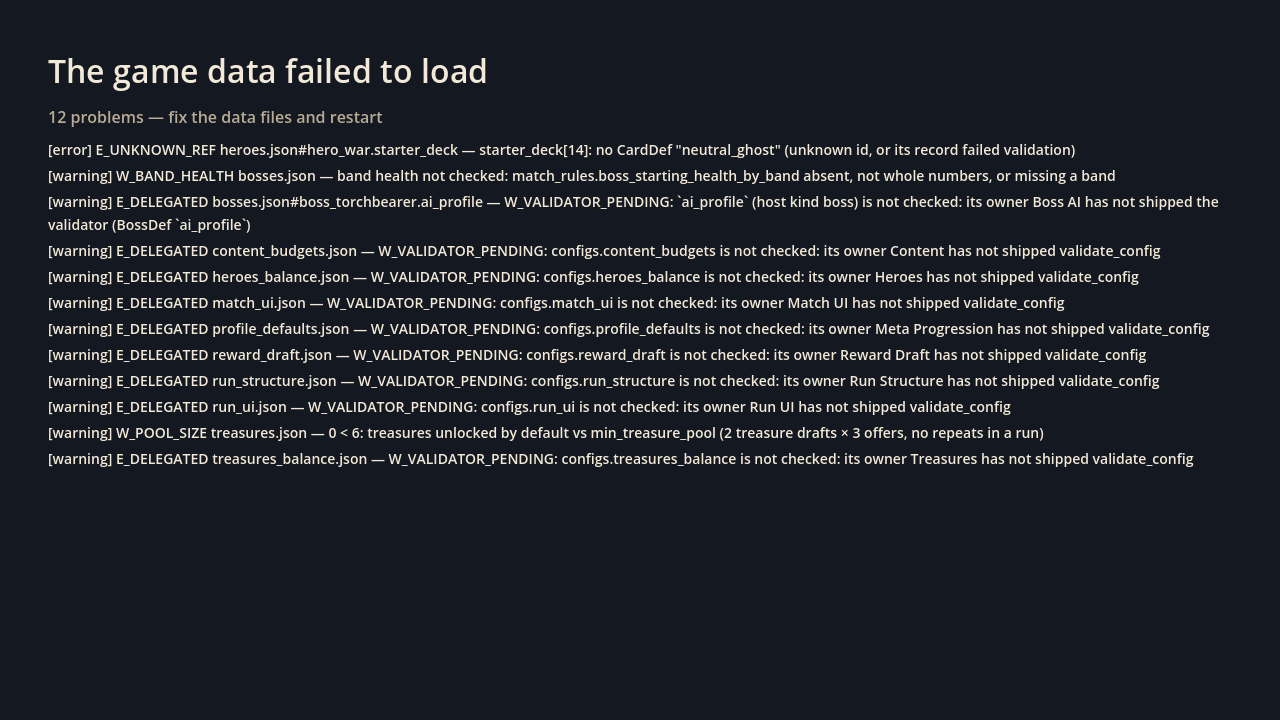
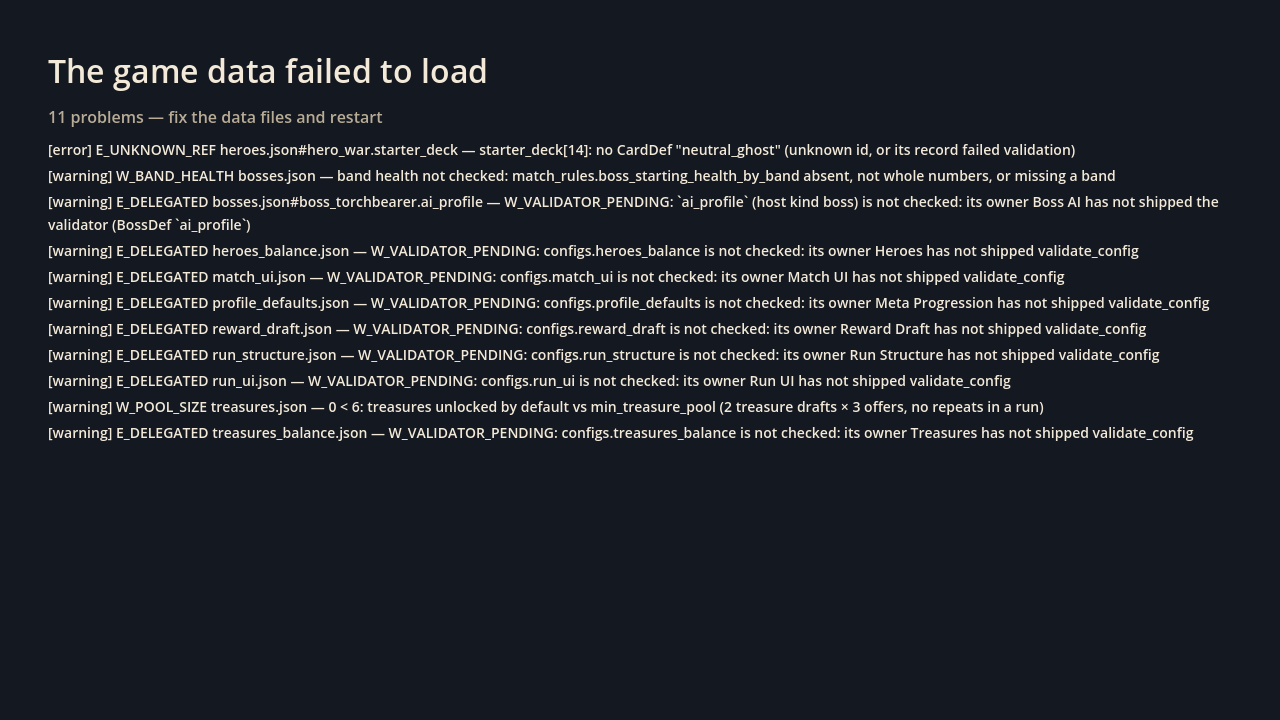
test(boot): re-capture the data_error frame after the trunk merge
Trunk's Boot now validates content_budgets, so the data_error capture
loses its content_budgets W_VALIDATOR_PENDING row (12 -> 11). main_menu
re-captured byte-identical. README stamps and story notes updated.

Story: boot-composition-root/story-006

Claude-Session: https://claude.ai/code/session_01A6qc8RpcdRDuUYNFS7dCHV

Changed region(s): [[0.0312, 0.3361, 0.9375, 0.6417]]

diff --git a/production/epics/boot-composition-root/story-006-main-scene-composition-entry.md b/production/epics/boot-composition-root/story-006-main-scene-composition-entry.md
@@ -115,7 +115,7 @@ checks scope against it.*
 
 ## Completion Notes
 **Completed**: 2026-11-04
-**Started / ended (UTC)**: 2026-11-04T00:18:19Z – 2026-11-04T00:24:36Z (first pass, interrupted by a container restart before commit); resumed 2026-11-04T01:33:58Z – 2026-11-04T01:37:40Z
+**Started / ended (UTC)**: 2026-11-04T00:18:19Z – 2026-11-04T00:24:36Z (first pass, interrupted by a container restart before commit); resumed 2026-11-04T01:33:58Z – 2026-11-04T01:37:40Z (story commit `6ca5b5c`); trunk merge + re-verify + re-capture 2026-11-04T01:40:33Z – 2026-11-04T01:43:00Z
 **Criteria**: 4/4 passing (AC-4's Windows row is `not yet run`, which the AC allows)
 **Deviations**:
 - The debug argument is `--boot-fail-fixture=<name>` over `res://tests/fixtures/data/<name>/` (name limited to `^[a-z0-9_]+$`); the capture uses a new `boot_data_error/` fixture (batch-0 data + one `E_UNKNOWN_REF`) because the existing card-database fixture roots carry stub config bodies that the real validators flood with 60+ errors. `tests/*` is not exported, so an exported debug build given the argument shows `E_MISSING_FILE` rows (still `data_error`).
@@ -125,5 +125,5 @@ checks scope against it.*
 - **Release exports open on `data_error`, by design.** Boot's validator map files every pending validator (`PENDING_CONFIG_OWNERS`, `PENDING_RECORD_OWNERS`) as an error when `OS.is_debug_build()` is false, so the shipped data loads `Failed` in a release export, and the `RunShell` opens `data_error` listing those rows (`[error] E_DELEGATED <file> — W_VALIDATOR_PENDING: …`). The stub needs no special case: it branches on `CardDatabase.state()` alone. Pinned by `main_scene_test.gd` over the shipped `assets/data/` with a fresh Boot instance's debug map (`main_menu`) and release map (`data_error`, every error row a pending validator). The `main_menu` frame is therefore a debug-build frame; a release frame would show `data_error` until the pending lists are empty (release guardrail, control manifest Foundation). No release capture was taken (the export needs templates and is gate condition 8's job).
 - The `data_error` fixture shows only the warnings a `Failed` load still reaches (e.g. `W_BAND_HEALTH`, one `W_POOL_SIZE`); it is the shipped set with one changed id, but checks that need a loaded hero set are skipped, so its warning list differs from the shipped data's.
 - AC-3 names `timeout 30`; the lane ran `timeout 60 godot --headless --quit-after 5` (same command, longer guard).
-**Test Evidence**: `production/qa/evidence/story-006-main-scene-composition-entry/` (2 frames, content-stamped; read by eye; rig-check re-run recorded); `tests/integration/boot/main_scene_test.gd` (10 tests, seen failing to parse before `Main`/`RunShell` existed; the 2 shipped-data tests added on resume were seen failing against a `RunShell` mutated to always show `main_menu` and to always show `data_error`) and `boot_scene_test.gd` (renamed main-scene test, seen failing on the old main scene). Full suite (`-c`) 1009 test cases, 0 failures, 0 orphans; `commands.smoke` exit 0, no `SCRIPT ERROR`; `tools/lint/` gates, no_global_rng and parse-check exit 0.
+**Test Evidence**: `production/qa/evidence/story-006-main-scene-composition-entry/` (2 frames, content-stamped; read by eye; rig-check re-run recorded); `tests/integration/boot/main_scene_test.gd` (10 tests, seen failing to parse before `Main`/`RunShell` existed; the 2 shipped-data tests added on resume were seen failing against a `RunShell` mutated to always show `main_menu` and to always show `data_error`) and `boot_scene_test.gd` (renamed main-scene test, seen failing on the old main scene). Full suite (`-c`) 1009 test cases, 0 failures, 0 orphans; `commands.smoke` exit 0, no `SCRIPT ERROR`; `tools/lint/` gates, no_global_rng and parse-check exit 0. After merging `bootstrap/ccgs-template` (Boot registers `ContentValidator.validate_config` for `content_budgets`): import exit 0, full suite (`-c`) 1040 test cases, 0 failures, 0 orphans; smoke exit 0, no `SCRIPT ERROR`; the three lints exit 0; both frames re-captured on the merged code (`01-main_menu.png` byte-identical; `02-data_error.png` now 11 rows, the `content_budgets` pending row gone, re-stamped).
 **Reviewed by**: lean — owner review of the frames pending (UI)

diff --git a/production/qa/evidence/story-006-main-scene-composition-entry/README.md b/production/qa/evidence/story-006-main-scene-composition-entry/README.md
@@ -18,6 +18,13 @@ view-state is built by hand.
 (`hero_war.starter_deck[14]` = `neutral_ghost`), so the report has exactly one
 error plus the debug-build warnings.
 
+**Re-captured 2026-11-04 (~01:41Z) after merging `bootstrap/ccgs-template`** (trunk's
+`Boot` now registers `ContentValidator.validate_config` for `content_budgets`).
+Same two commands. `01-main_menu.png` came out byte-identical (same stamp);
+`02-data_error.png` lost its `content_budgets.json` `W_VALIDATOR_PENDING` row
+(12 → 11 problems) and was re-stamped. The 12-row first capture is superseded
+(git history keeps it). Both runs: exit 0, 1280x720, no `SCRIPT ERROR`.
+
 Renderer line both runs printed: `OpenGL API 4.5 (Core Profile) Mesa
 25.2.8-0ubuntu0.24.04.4 - Compatibility - Using Device: Mesa - llvmpipe (LLVM
 20.1.2, 256 bits)` — Compatibility/llvmpipe under Xvfb, not the project's
@@ -29,11 +36,11 @@ Forward+ (ADR-0010). No `SCRIPT ERROR` in either log.
   at 48 px in `text_light`; "Run UI pending" under it at 20 px in `text_muted`.
   Nothing else on screen, nothing clipped. Matches AC-2's `main_menu` placeholder.
 - `02-data_error.png`: same background; heading "The game data failed to load"
-  (32 px, `text_light`); "12 problems — fix the data files and restart" (16 px,
+  (32 px, `text_light`); "11 problems — fix the data files and restart" (16 px,
   `text_muted`); then one row per `ValidationReport.to_text()` line in the CR-8
   shape `[severity] CODE file#record.field — message`: the `[error]
   E_UNKNOWN_REF heroes.json#hero_war.starter_deck — starter_deck[14]: no CardDef
-  "neutral_ghost" …` row first, then the 11 warnings (`W_BAND_HEALTH`, the
+  "neutral_ghost" …` row first, then the 10 warnings (`W_BAND_HEALTH`, the
   `W_VALIDATOR_PENDING` rows, `W_POOL_SIZE`). The one long row wraps; nothing is
   cut off. No main menu is shown (`Failed` has no main menu).
 
@@ -41,7 +48,7 @@ Forward+ (ADR-0010). No `SCRIPT ERROR` in either log.
 
 ```
 Reviewed-Content-Hash: production/qa/evidence/story-006-main-scene-composition-entry/01-main_menu.png f60fb15214d69e0332114c78a7a40d8a7d47f909
-Reviewed-Content-Hash: production/qa/evidence/story-006-main-scene-composition-entry/02-data_error.png cff94cb2a300033a052668d88d9d6f76cb91f887
+Reviewed-Content-Hash: production/qa/evidence/story-006-main-scene-composition-entry/02-data_error.png b02261e3c57b7d0cd4beb4f7d4ca378f0d37b627
 ```
 
 ## `capture.sh` rig-check re-run (2- and 3-argument forms unchanged)
